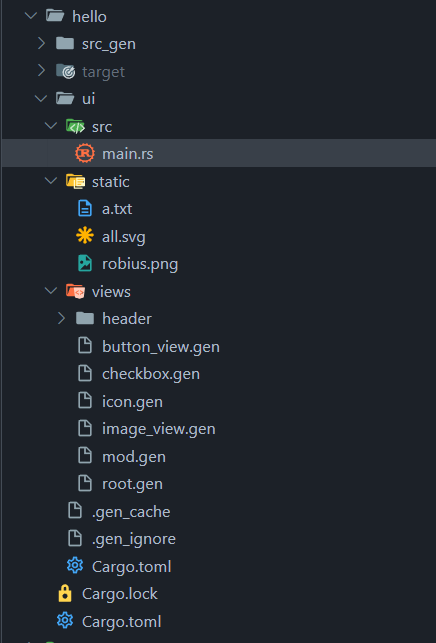
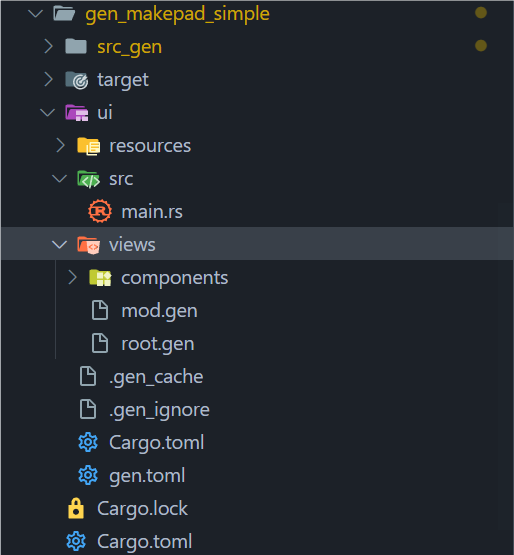
update doc

diff --git a/src/gen/tutorials/logger.md b/src/gen/tutorials/logger.md
@@ -2,7 +2,12 @@
 
 ## Logo
 
-![](../../static/gen/tutorials/logo.png)
+You can control whether the logo is printed using the system environment variable `GENUI_LOGO` or through the configuration file in TOML format.
+
+- For more details, see [GenUI Environment Setup](https://palpus-rs.github.io/Gen-UI.github.io/gen/tutorials/env.html).
+- For configuration, see [GenUI Config TOML](https://palpus-rs.github.io/Gen-UI.github.io/gen/tutorials/conf.html).
+
+Example:
 
 ```rust
 GenUI-Compiler :: [2024-06-29T08:53:57Z] :: INFO >>> 
@@ -12,23 +17,27 @@ GenUI-Compiler :: [2024-06-29T08:53:57Z] :: INFO >>>
  _/  _/_/  _/_/_/    _/  _/  _/  _/    _/    _/
 _/    _/  _/        _/    _/_/  _/    _/    _/
  _/_/_/  _/_/_/_/  _/      _/    _/_/    _/_/_/
- 
+
 ```
 
 ## Services
 
+The GenUI Logger provides detailed information about the state of various services. Here are some log examples:
+
 ```rust
-GenUI-Compiler :: [2024-06-29T08:53:57Z] :: INFO >>> 🔧 Log Service is starting...      you can get log after app event::Change happened!
-GenUI-Compiler :: [2024-06-29T08:53:57Z] :: INFO >>> 🔧 Source Generator Service start success!
-GenUI-Compiler :: [2024-06-29T08:53:57Z] :: INFO >>> ✅ Cache Service: write cache file success!
+GenUI-Compiler :: [2024-06-29T08:53:57Z] :: INFO >>> 🔧 Log Service is starting... Log entries will be available after the `app event::Change` occurs!
+GenUI-Compiler :: [2024-06-29T08:53:57Z] :: INFO >>> 🔧 Source Generator Service started successfully!
+GenUI-Compiler :: [2024-06-29T08:53:57Z] :: INFO >>> ✅ Cache Service: Cache file written successfully!
 GenUI-Compiler :: [2024-06-29T08:53:57Z] :: INFO >>> 🔧 App is running...
-GenUI-Compiler :: [2024-06-29T08:53:57Z] :: INFO >>> 🔧 Watcher Service start success!
+GenUI-Compiler :: [2024-06-29T08:53:57Z] :: INFO >>> 🔧 Watcher Service started successfully!
 ```
 
-## Timing Compile
+## Compile Timing
+
+The logger also tracks and displays compile timings, helping you monitor the compilation process:
 
 ```rust
-GenUI-Compiler :: [2024-06-28T19:09:24Z] :: INFO >>> file "E:\\Rust\\try\\makepad\\Gen-UI\\examples\\gen_makepad_simple\\ui\\views\\root.gen" is compiled successfully.
-GenUI-Compiler :: [2024-06-28T19:09:24Z] :: INFO >>> ✅ Cache Service: write cache file success!
-GenUI-Compiler :: [2024-06-28T19:09:24Z] :: INFO >>> file "E:\\Rust\\try\\makepad\\Gen-UI\\examples\\gen_makepad_simple\\ui\\views\\root.gen" is compiled successfully.
+GenUI-Compiler :: [2024-06-28T19:09:24Z] :: INFO >>> File "E:\\Rust\\try\\makepad\\Gen-UI\\examples\\gen_makepad_simple\\ui\\views\\root.gen" compiled successfully.
+GenUI-Compiler :: [2024-06-28T19:09:24Z] :: INFO >>> ✅ Cache Service: Cache file written successfully!
+GenUI-Compiler :: [2024-06-28T19:09:24Z] :: INFO >>> File "E:\\Rust\\try\\makepad\\Gen-UI\\examples\\gen_makepad_simple\\ui\\views\\root.gen" compiled successfully.
 ```

diff --git a/src/gen/tutorials/compiler.md b/src/gen/tutorials/compiler.md
@@ -1,0 +1,68 @@
+# GenUI Compiler
+GenUI Compiler is used to compile the current UI project into the underlying target project code
+
+### Attention
+you should write from project root path as relative path
+### Example No `gen.toml`
+we can create a compiler without `gen.toml` file, but we need to specify the target and other configurations
+
+compiler use `builder` pattern, so you can chain the method to build the compiler, 
+and finally call `build` method to get the compiler.
+```rust
+use gen_compiler::{app, Target, Builder};
+
+fn main() {
+    let compiler = Target::makepad()
+        .entry("app")
+        .root("E:/Rust/try/makepad/Gen-UI/examples/gen_makepad_simple/ui/views/root.gen")
+        .add_dep("makepad-widgets")
+        .local("E:/Rust/try/makepad/makepad/rik/makepad/widgets")
+        .build()
+        .wasm() // do not use if you don't need wasm
+        .build()
+        .build();
+
+    // set app and specify target
+    let mut app = app(Some(Box::new(compiler))).build();
+
+    let _ = app.run();
+}
+
+```
+---
+### Example With `gen.toml`
+if you have a `gen.toml` file, you can create a compiler without specifying the target and other configurations
+the `gen.toml` file should be in the project root path, such as:
+```text
+hello
+├── src_gen
+├────── // ....
+├── ui
+├────── src
+├────── gen.toml
+```
+#### gen.toml
+```toml
+[compiler]
+target = "makepad"
+log_level = "info"
+logo = true
+
+[makepad]
+entry = "app"
+root = "E:/Rust/try/makepad/Gen-UI/examples/gen_makepad_simple/ui/views/root.gen"
+[makepad.dependencies] 
+makepad-widgets = { path = "E:/Rust/try/makepad/makepad/rik/makepad/widgets" }
+```
+#### main.rs
+gen compiler will read the `gen.toml` file and create, so you do not need to pass the compiler
+
+If you pass the compiler, the compiler will be used instead of the `gen.toml` file
+```rust
+use gen_compiler::{app, Builder};
+
+fn main() {
+    let mut app = app(None).build();
+    let _ = app.run();
+}
+```

diff --git a/src/gen/tutorials/conf.md b/src/gen/tutorials/conf.md
@@ -1,0 +1,66 @@
+# GenUI Config Toml
+
+## Priority
+
+Compiler > Env > Conf
+
+> Although Conf Toml has lowest level, it is the most recommended!
+
+## Toml Description
+
+```toml
+[compiler]
+target = "makepad"
+log_level = "info"
+logo = true
+
+[makepad]
+entry = "app"
+root = "E:/Rust/try/makepad/Gen-UI/examples/gen_makepad_simple/ui/views/root.gen"
+[makepad.dependencies] 
+makepad-widgets = { path = "E:/Rust/try/makepad/makepad/rik/makepad/widgets" }
+[wasm]
+check = false
+fresh = true
+port = 8016
+```
+
+### `[compiler]` Args
+
+|Name|Type|Options|Default Value|
+|--|--|--|--|
+|target|String|1. "makepad"|"makepad"|
+|log_level|String|1. `error`<br />2. `warn`<br />3. `info`<br />4. `debug`<br />5. `trace`|"info"|
+|logo|bool|1. true<br />2. false|true|
+
+- `target`: Set GenUI Compiler target
+- `logo`: Set Logo is print or not
+- `logo_level`: Set GenUI Log Level
+
+### `[makepad]` Args
+
+|Name|Type|Options|Default Value|
+|--|--|--|--|
+|entry|String|-|"app"|
+|root|PathBuf|-|-|
+
+- `entry`: makepad entry app rs file
+- `root`: your ui dir root gen file
+
+#### `[makepad.dependencies]`
+
+required now!
+
+format: `makepad-widgets = { path = "the/latest/makepad-widget/package/path" }`
+
+recommand: `makepad-widgets = { git = "https://github.com/makepad/makepad", branch = "rik" }`
+
+#### `[makepad.wasm]`
+
+not required
+
+|Name|Type|Options|Default Value|
+|--|--|--|--|
+|check|bool|1. true<br />2. false|false|
+|fresh|bool|1. true<br />2. false|false|
+|port|u16|0~65535|8010|

diff --git a/src/gen/exmaple/quickstart.md b/src/gen/exmaple/quickstart.md
@@ -92,28 +92,25 @@ pub mod root;
 - 设置目标入口文件的文件名字为`app`，这会让最终Makepad的入口为`app.rs`
 - 指定`E:/Rust/try/makepad/Gen-UI/examples/gen_makepad_simple/ui/views/root.gen`这个文件作为UI的根文件(通过这种方式，来切换多个UI根)
 - `add_dep()`方法将依赖添加到编译器中
-- 调用`compile()`方法进行编译
+- 调用`build()`方法进行编译
 - 调用`run()`方法启动编译器
 
 ```rust
-use gen_compiler::{app, DepType, RustDependence, Target};
+use gen_compiler::{app, Target, Builder};
 
 fn main() {
-    // set app and specify target
-    let mut app = app(Target::Makepad);
-    // add makepad widget dependence
-    let mut makepad_widget = RustDependence::new("makepad-widgets");
-    makepad_widget.set_ty(DepType::local(
-        "E:/Rust/try/makepad/makepad/rik/makepad/widgets",
-    ));
-    
-    // compile and run
-    let _ = app
+    let compiler = Target::makepad()
         .entry("app")
         .root("E:/Rust/try/makepad/Gen-UI/examples/gen_makepad_simple/ui/views/root.gen")
-        .add_dep(makepad_widget)
-        .compile();
+        .add_dep("makepad-widgets")
+        .local("E:/Rust/try/makepad/makepad/rik/makepad/widgets")
+        .build()
+        .build();
+
+    // set app and specify target
+    let mut app = app(Some(Box::new(compiler))).build();
 
     let _ = app.run();
 }
 ```
+

diff --git a/src/gen/tutorials/env.md b/src/gen/tutorials/env.md
@@ -1,0 +1,34 @@
+# GenUI Env
+Environment variables used by the compiler.
+
+- `GENUI_TARGET`: Set GenUI Compiler target
+- `GENUI_LOGO`: Set Logo is print or not
+- `GENUI_LOG_LEVEL`: Set GenUI Log Level
+
+## Details
+
+|Env Name|Default Value|Type|Option Values|
+|--|--|--|--|
+|`GENUI_TARGET`|`makepad`|`String`|1. `makepad`|
+|`GENUI_LOGO`|`true`|`Bool`|1. `true`<br /> 2. `false`|
+|`GENUI_LOG_LEVEL`|`info`|`String`|1. `error`<br />2. `warn`<br />3. `info`<br />4. `debug`<br />5. `trace`|
+
+## How to Set Env Variable
+
+### Windows
+
+```bash
+setx GENUI_TARGET makepad
+```
+
+### Mac/Linux
+
+```bash
+export GENUI_TARGET=makepad
+```
+
+## Use Place
+
+- [`GENUI_TARGET`](./compiler.md)
+- [`GENUI_LOGO`](./logger.md)
+- [`GENUI_LOG_LEVEL`](./logger.md)

diff --git a/src/gen/tutorials/structure.md b/src/gen/tutorials/structure.md
@@ -1,11 +1,12 @@
 # GenUI Structure
 
-- src_gen: 编译后makepad原始代码目录
-- ui: GenUI代码目录
-  - src/main.rs: 主入口文件
-  - static: 静态文件目录
-  - views: .gen文件目录(当然这个名字可以是任意的)
-- .gen_cache: GenUI缓存文件
-- .gen_ignore: GenUI忽略的编译文件
+- `src_gen`: 编译后makepad原始代码目录
+- `ui`: GenUI代码目录
+  - `src/main.rs`: 主入口文件
+  - `resources`: 静态文件目录
+  - `views`: .gen文件目录(当然这个名字可以是任意的)
+- `.gen_cache`: GenUI缓存文件
+- `.gen_ignore`: GenUI忽略的编译文件
+- `gen.toml`: GenUI项目配置文件
 
 ![](../../static/gen/tutorials/struct.png)

diff --git a/src/SUMMARY.md b/src/SUMMARY.md
@@ -158,6 +158,9 @@
   - [QuickStart](./gen/exmaple/quickstart.md)
   - [Video](./gen/exmaple/video.md)
   - [Tutorials]()
+    - [GenUI Env](./gen/tutorials/env.md)
+    - [GenUI Config Toml](./gen/tutorials/conf.md)
+    - [GenUI Compiler](./gen/tutorials/compiler.md)
     - [GenUI Logger](./gen/tutorials/logger.md)
     - [GenUI Structure](./gen/tutorials/structure.md)
     - [GenUI Ignore](./gen/tutorials/ignore.md)
